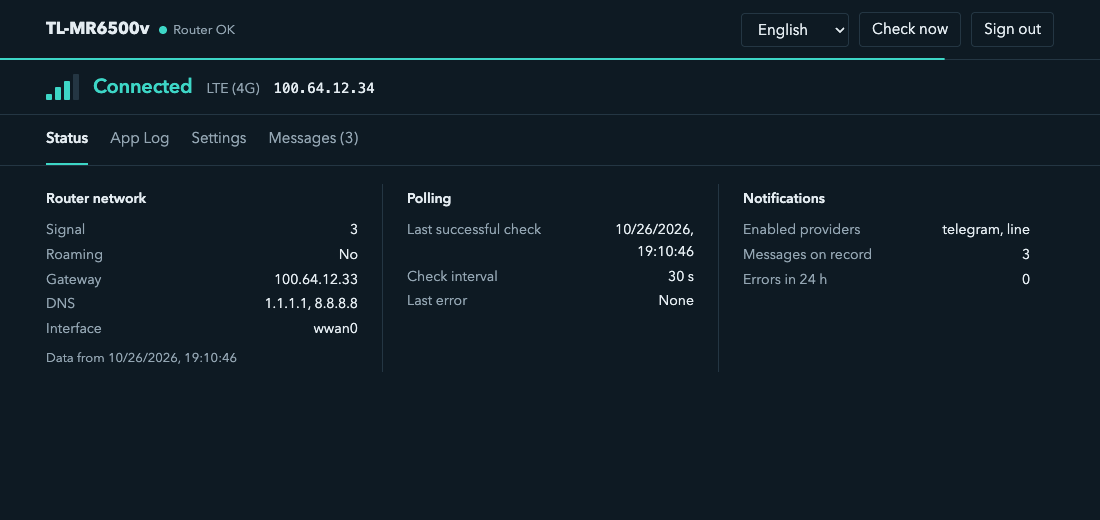
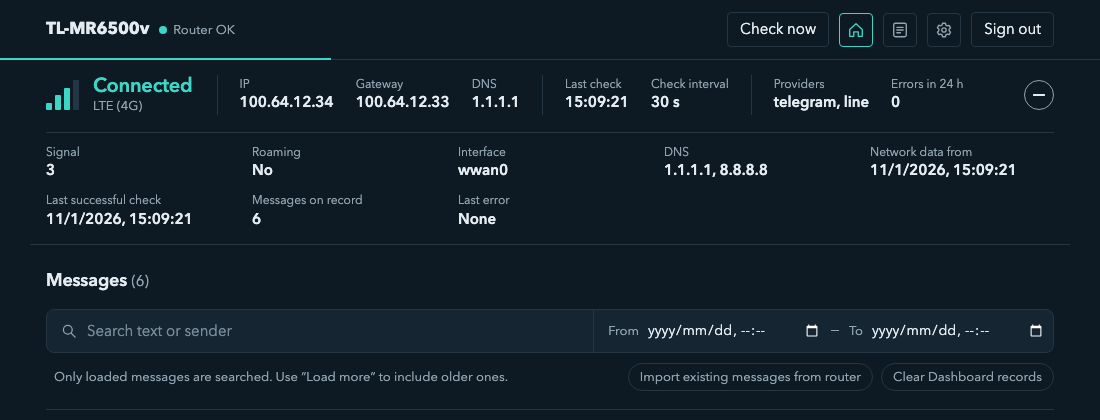
Update README and refresh Dashboard screenshots
Document Check now, the unread dot and push failures; replace the screenshots
with the single-page layout.

diff --git a/README.md b/README.md
@@ -9,14 +9,14 @@ Get an instant alert for every new SMS that arrives on a TP-Link TL-MR6500v home
 
 <picture>
   <source media="(prefers-color-scheme: dark)" srcset="assets/screenshot-messages-dark.png">
-  <img src="assets/screenshot-messages-light.png" alt="The Dashboard Messages tab" width="720">
+  <img src="assets/screenshot-messages-light.png" alt="The Dashboard main page: status band and messages" width="720">
 </picture>
 
 > **Unofficial project.** It is not made, endorsed or supported by TP-Link. The router protocol was worked out by reading the router's own web interface, using the author's device. Use it at your own risk; it comes with no warranty (see [LICENSE](LICENSE)).
 
 ## Compatibility
 
-Tested on one TL-MR6500v. Other models and firmware versions may behave differently. If you try it on another one, please open an issue and tell us what happened.
+Tested on one TL-MR6500v, including reading, marking as read and deleting messages. Other models and firmware versions may behave differently. If you try it on another one, please open an issue and tell us what happened.
 
 ## How it works
 
@@ -36,7 +36,7 @@ After starting, open `http://localhost:6500` (Docker) or `http://localhost:8000`
 
 The Dashboard has three pages, and its language can be changed on the Settings page (Traditional Chinese, Simplified Chinese, English, Japanese). The choice applies at once and is remembered in the browser; the sign-in page has its own language menu. The home, App Log and Settings pages open from the icons in the top bar. On the main page, a round up-arrow button appears at the bottom right once you scroll past the top of the messages, and takes you back to it.
 
-- **Main page**: a slim status band on top (LTE connection state and signal, IP, gateway, DNS, last check and interval, enabled providers, errors in the last 24 hours), and the messages below it. The network details are read during each poll, so the app does not log in to the router an extra time. "More details" on the right of the band opens everything else (signal strength, roaming, network interface, both DNS servers, the full time of the last successful check, the last error, the number of messages on record, and when the network data was read); the choice is remembered in the browser.
+- **Main page**: the "Check now" button in the top bar checks the router right away instead of waiting for the next round. Below it, a slim status band on top (LTE connection state and signal, IP, gateway, DNS, last check and interval, enabled providers, errors in the last 24 hours), and the messages below it. The network details are read during each poll, so the app does not log in to the router an extra time. "More details" on the right of the band opens everything else (signal strength, roaming, network interface, both DNS servers, the full time of the last successful check, the last error, the number of messages on record, and when the network data was read); the choice is remembered in the browser.
 - **App Log** (top bar icon, with a red badge for unread errors): filter by level (all / warnings and above / errors only).
   - Errors you have not looked at yet are *unread*: the badge, the red bar on the main page and the red number in the status band all follow the unread count, and unread `ERROR` rows have a red edge in the log. Opening the log does not clear them. Press "Mark as read" on the bar, or "Mark errors as read" on the App Log page; the log itself is kept, and any error that happens later shows up as unread again. The state is saved in SQLite, so every browser agrees.
   - If the router cannot be checked right now, the bar shows that current error instead and has no "Mark as read" button; it goes away by itself after the next successful check.
@@ -46,7 +46,7 @@ The Dashboard has three pages, and its language can be changed on the Settings p
   - Whether other devices on the local network may open the Dashboard (off by default, so only this machine can)
   - Whether to also push error messages to the providers (off by default; the same error is pushed at most once every 30 minutes)
   - Whether messages can be edited (off by default, so messages are read-only). Turning it on asks for your Dashboard password once. While it is on, opening a message marks it read on the router, and each message gets a "Delete from router" button
-- **Messages**: the full text of each pushed message and each provider's delivery result, with the number of records in the title. The list is paged; choose how many messages per page (10, 20, 50 or 100), and the choice is remembered in the browser. The newest 200 messages are loaded at first; "Load more" fetches the next 200.
+- **Messages**: the full text of each pushed message and each provider's delivery result, with the number of records in the title. A dot before the sender marks a message that is still unread. The list is paged; choose how many messages per page (10, 20, 50 or 100), and the choice is remembered in the browser. The newest 200 messages are loaded at first; "Load more" fetches the next 200.
   - "Import existing messages from router" adds the latest `IMPORT_LIMIT` old messages from the router inbox to the records. They are only saved, not pushed, and are marked "Not pushed". The same import runs once on the first start.
   - "Clear Dashboard records" deletes only the records in the database. It never deletes messages on the router, and nothing is pushed again.
   - "Push again" appears on a message where a provider failed. It pushes only to the provider(s) that failed, so the others get no duplicate. It works even when editing is off.
@@ -55,7 +55,7 @@ The Dashboard has three pages, and its language can be changed on the Settings p
 
 <picture>
   <source media="(prefers-color-scheme: dark)" srcset="assets/screenshot-status-dark.png">
-  <img src="assets/screenshot-status-light.png" alt="The Dashboard Status tab" width="720">
+  <img src="assets/screenshot-status-light.png" alt="The status band with More details open" width="720">
 </picture>
 
 The thin line under the top bar counts down to the next check and starts over on every check.
@@ -183,6 +183,7 @@ To add a Dashboard language, add it to `LANGUAGES` and `STRINGS` in `src/tl_mr65
 - **The Dashboard shows 403 "Local access only"**: the source IP is not in the local networks. Check the warning in the App Log for the source IP (with Docker it is often `172.x` or `192.168.x`). Turn on the local network setting or add the address to `LOCAL_CLIENT_CIDRS`.
 - **The app fails to start with a required `admin_password` field**: add `ADMIN_PASSWORD` to `.env`.
 - **No notifications**: check `ENABLED_PROVIDERS` and the matching tokens. Push errors are in `logs/error.log`.
+- **A push failed (for example `Name or service not known`)**: this is usually a short network or DNS problem. The app retries by itself 3 times; if it still fails, open the message in the Dashboard and press "Push again".
 - **Missed old messages**: messages that arrive while the app is stopped are pushed after it restarts. Messages that existed before the first start (when `data/seen.json` did not exist yet) are not pushed.
 
 ## Contributing
